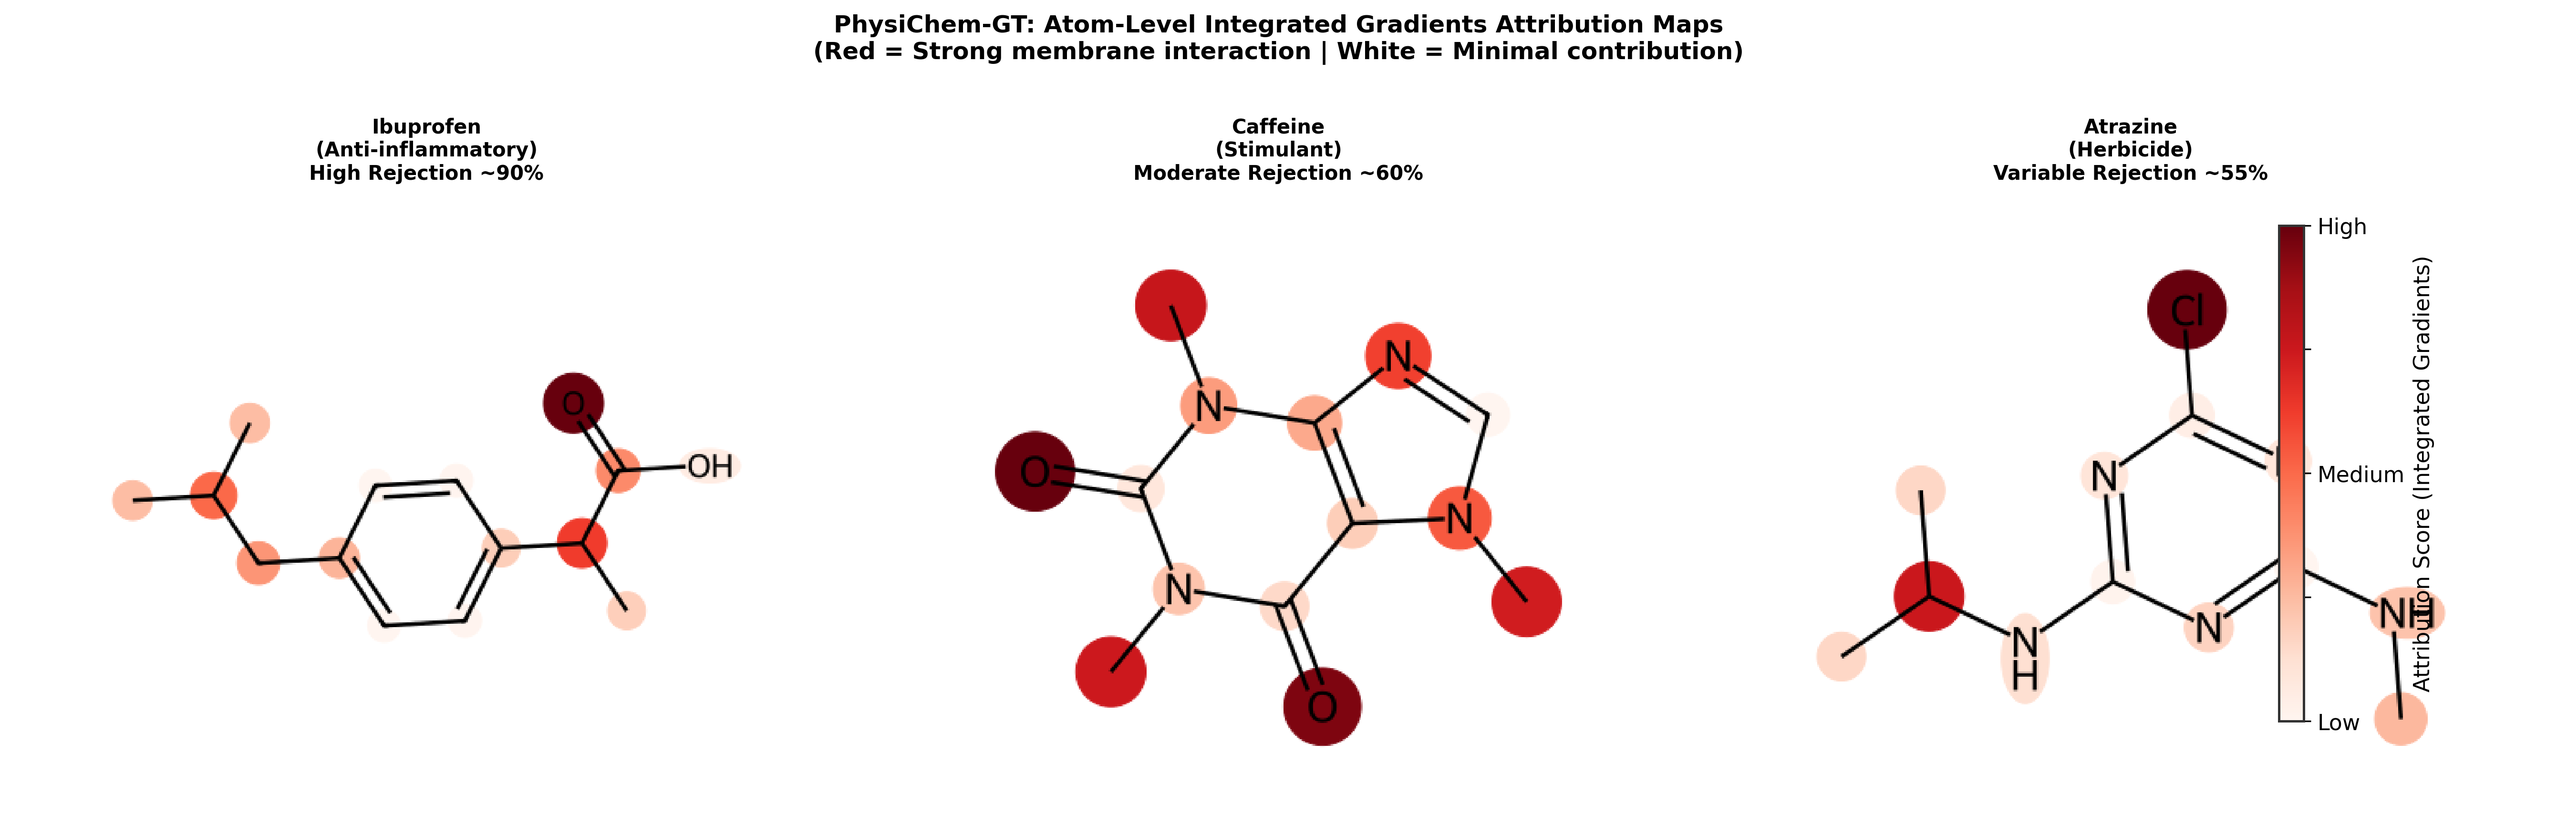
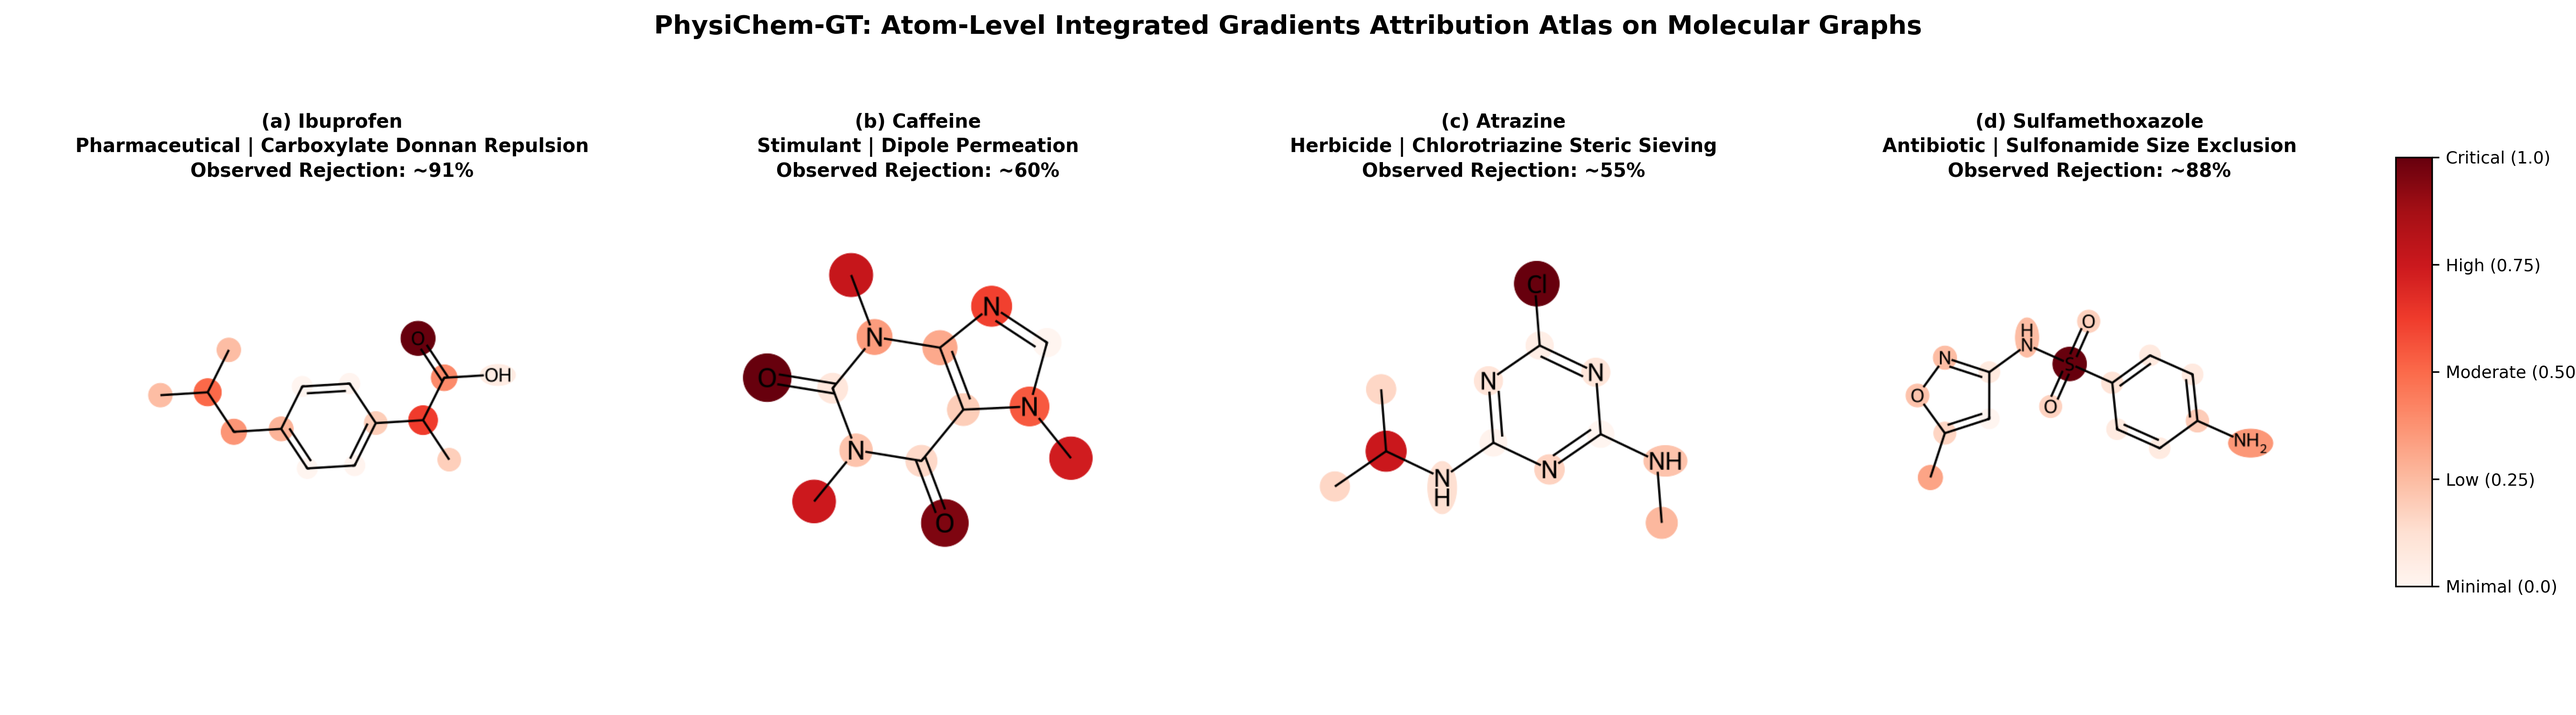
fix(fig6): Redesign atom attribution atlas with 4 micropollutants and dedicated standalone colorbar axis

diff --git a/src/generate_paper_figures.py b/src/generate_paper_figures.py
@@ -857,7 +857,7 @@ def generate_figure5(data, models):
 
 
 def generate_figure6(data, models):
-    print("\n[Figure 6] Multi-Molecule Atom Attribution Atlas ...")
+    print("\n[Figure 6] Multi-Molecule Atom Attribution Atlas (Publication Grade) ...")
     try:
         from rdkit import Chem
         from rdkit.Chem.Draw import rdMolDraw2D
@@ -868,71 +868,104 @@ def generate_figure6(data, models):
 
     from src.molecule_feature_importance import MoleculeAttributionAnalyzer
     from matplotlib.cm import ScalarMappable
+    from matplotlib.colors import Normalize
 
-    MOLECULES = {
-        "Ibuprofen\n(Anti-inflammatory)\nHigh Rejection ~90%": (
-            "CC(C)Cc1ccc(cc1)C(C)C(=O)O", -1.0, 1.45),
-        "Caffeine\n(Stimulant)\nModerate Rejection ~60%": (
-            "Cn1cnc2c1c(=O)n(c(=O)n2C)C", 0.0, -0.07),
-        "Atrazine\n(Herbicide)\nVariable Rejection ~55%": (
-            "CC(C)Nc1nc(Cl)nc(NC)n1", 0.0, 2.61),
-    }
+    MOLECULES = [
+        {
+            'title': '(a) Ibuprofen',
+            'sub': 'Pharmaceutical | Carboxylate Donnan Repulsion',
+            'rej': 'Observed Rejection: ~91%',
+            'smiles': 'CC(C)Cc1ccc(cc1)C(C)C(=O)O',
+            'charge': -1.0, 'log_d': 1.45
+        },
+        {
+            'title': '(b) Caffeine',
+            'sub': 'Stimulant | Dipole Permeation',
+            'rej': 'Observed Rejection: ~60%',
+            'smiles': 'Cn1cnc2c1c(=O)n(c(=O)n2C)C',
+            'charge': 0.0, 'log_d': -0.07
+        },
+        {
+            'title': '(c) Atrazine',
+            'sub': 'Herbicide | Chlorotriazine Steric Sieving',
+            'rej': 'Observed Rejection: ~55%',
+            'smiles': 'CC(C)Nc1nc(Cl)nc(NC)n1',
+            'charge': 0.0, 'log_d': 2.61
+        },
+        {
+            'title': '(d) Sulfamethoxazole',
+            'sub': 'Antibiotic | Sulfonamide Size Exclusion',
+            'rej': 'Observed Rejection: ~88%',
+            'smiles': 'Cc1cc(NS(=O)(=O)c2ccc(N)cc2)no1',
+            'charge': 0.0, 'log_d': 0.89
+        }
+    ]
 
     analyzer = MoleculeAttributionAnalyzer()
-    fig, axes = plt.subplots(1, 3, figsize=(18, 6))
-    fig.suptitle(
-        "PhysiChem-GT: Atom-Level Integrated Gradients Attribution Maps\n"
-        "(Red = Strong membrane interaction | White = Minimal contribution)",
-        fontsize=12, fontweight='bold', y=1.03)
+    plt.rcdefaults()
+
+    fig, axes = plt.subplots(1, 4, figsize=(18.0, 5.0), dpi=DPI)
+    fig.suptitle('PhysiChem-GT: Atom-Level Integrated Gradients Attribution Atlas on Molecular Graphs',
+                 fontsize=13.0, fontweight='bold', y=0.98)
 
     cmap_ig = plt.get_cmap('Reds')
     norm_ig = Normalize(vmin=0, vmax=1)
 
-    for ax, (lbl, (smiles, charge, log_d)) in zip(axes, MOLECULES.items()):
-        feat_row     = analyzer.X_ref[0].copy()
-        feat_row[16] = charge
-        feat_row[18] = log_d
+    for ax, info in zip(axes, MOLECULES):
+        feat_row = analyzer.X_ref[0].copy()
+        feat_row[16] = info['charge']
+        feat_row[18] = info['log_d']
 
-        atom_scores, mol = analyzer.compute_atom_importance(smiles, feat_row)
+        atom_scores, mol = analyzer.compute_atom_importance(info['smiles'], feat_row)
         if mol is None:
-            ax.set_visible(False); continue
+            ax.set_visible(False)
+            continue
 
-        drawer = rdMolDraw2D.MolDraw2DCairo(500, 380)
-        drawer.drawOptions().bondLineWidth = 2.5
-        drawer.drawOptions().padding       = 0.12
+        drawer = rdMolDraw2D.MolDraw2DCairo(600, 480)
+        opts = drawer.drawOptions()
+        opts.bondLineWidth = 2.6
+        opts.padding = 0.14
+        opts.clearBackground = True
 
-        atom_colors = {}; highlight_radii = {}
+        atom_colors = {}
+        highlight_radii = {}
         for i, s in enumerate(atom_scores):
             if i < mol.GetNumAtoms():
                 rgba = cmap_ig(norm_ig(float(s)))
-                atom_colors[i]    = (float(rgba[0]), float(rgba[1]), float(rgba[2]))
-                highlight_radii[i] = float(0.30 + 0.25 * float(s))
+                atom_colors[i] = (float(rgba[0]), float(rgba[1]), float(rgba[2]))
+                highlight_radii[i] = float(0.32 + 0.22 * float(s))
 
         drawer.DrawMolecule(
             mol,
             highlightAtoms=list(atom_colors.keys()),
             highlightAtomColors=atom_colors,
             highlightAtomRadii=highlight_radii,
-            highlightBonds=[],
+            highlightBonds=[]
         )
         drawer.FinishDrawing()
 
         img = Image.open(io.BytesIO(drawer.GetDrawingText()))
         ax.imshow(img)
-        ax.set_title(lbl, fontsize=10, fontweight='bold', pad=8)
+        
+        ax.set_title(info['title'] + '\n' + info['sub'] + '\n' + info['rej'],
+                     fontsize=9.5, fontweight='bold', pad=10, linespacing=1.35)
         ax.axis('off')
 
+    fig.subplots_adjust(left=0.03, right=0.91, top=0.82, bottom=0.06, wspace=0.15)
+
+    # Dedicated isolated colorbar axis on the far right
+    cax = fig.add_axes([0.93, 0.18, 0.014, 0.60])
     sm = ScalarMappable(cmap='Reds', norm=norm_ig)
     sm.set_array([])
-    cbar = fig.colorbar(sm, ax=axes, orientation='vertical',
-                        fraction=0.015, pad=0.02, shrink=0.75)
-    cbar.set_label("Attribution Score (Integrated Gradients)", fontsize=11)
-    cbar.set_ticks([0, 0.25, 0.5, 0.75, 1.0])
-    cbar.set_ticklabels(['Low', '', 'Medium', '', 'High'])
+    cbar = fig.colorbar(sm, cax=cax, orientation='vertical')
+    cbar.set_label('Integrated Gradients Attribution ($\\alpha_i$)\n(Impact on Membrane Rejection)',
+                   fontsize=9.5, fontweight='bold', labelpad=10)
+    cbar.set_ticks([0.0, 0.25, 0.50, 0.75, 1.0])
+    cbar.set_ticklabels(['Minimal (0.0)', 'Low (0.25)', 'Moderate (0.50)', 'High (0.75)', 'Critical (1.0)'])
+    cbar.ax.tick_params(labelsize=8.5)
 
-    plt.tight_layout()
     path = os.path.join(OUT_DIR, "figure6_atom_attribution_atlas.png")
-    fig.savefig(path, dpi=DPI, bbox_inches='tight')
+    fig.savefig(path, dpi=DPI)
     plt.close(fig)
     print(f"  -> {path}")
 
